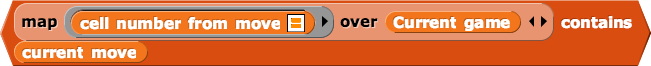
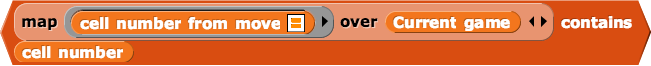
first page of TTT done

Changed region(s): [[0.0, 0.6061, 0.9831, 1.0], [0.9831, 0.4545, 1.0, 0.6061], [0.9831, 0.6364, 1.0, 0.6667]]

diff --git a/cur/programming/3-lists/4-combining-list-ops/3-tic-tac-toe.html b/cur/programming/3-lists/4-combining-list-ops/3-tic-tac-toe.html
@@ -30,13 +30,14 @@
         <li>The players can see which which cells on the board have been taken, but the program isn't keeping track of those cells, so a player can move the sprite into a space that has already been taken.</li>
         	<ol>
             	<li>To keep track, you will need a variable <var>current game</var> in which to list each move of the game. At the start of the game, this list must be empty (set to the empty list).</li>
-                <li>Build a constructor <code>current move</code> that creates a list of two items, the player and the cell the player moved to. That list will be added to <var>current game</var> if the move is legal. It will be useful to have a reporter like <img src="/bjc-r/img/3-lists/player(costumeNumber).png"  alt="player(costume Number)"> that translates a costume number (1 or 2) into a player's symbol (x or o). </li>
-                <li>When a player tries to move the sprite into a space, your program must check the list <var>current game</var> to see if that is a legal move. One way to do that is to create a block <img src="/bjc-r/img/3-lists/legal-move().png"  alt="legal move?"> to see if the cell number is already in <var>current game</var>. If it <em>is</em>, the program must say something like "that space is already used." If it <em>isn't</em>, the player's current move—the list containing the costume (x or o) and cell number—must be added to <var>current game</var>. For this, it will be useful to have a selector <img src="/bjc-r/img/3-lists/cell-number-from-move.png" width="244" height="23" alt="cell-number-from-move"> that takes a move (the list of player's symbol and the cell) as input and outputs only the cell.  You will also need .............<img src="/bjc-r/img/3-lists/map-cell-number-from-move()-over-current-game-contains-current-move.png" width="651" height="66" alt="map-cell-number-from-move()-over-current-game-contains-current-move"></li>
+                <li>Build a constructor <code>current move</code> that takes two inputs, the player (x or o) and the cell the player moved to (1 through 9), and reports the list of those two. It will be useful to have a reporter like <img src="/bjc-r/img/3-lists/player(costumeNumber).png"  alt="player(costume Number)"> that translates a costume number (1 or 2) into a player's symbol (x or o). </li>
+                <li>When a player tries to move the sprite into a space, your program must check the list <var>current game</var> to see if that is a legal move. One way to do that is to create a block <img src="/bjc-r/img/3-lists/legal-move().png"  alt="legal move?"> to see if the cell number is still free (not already used in <var>current game</var>). If it is still free, the player's move—the list of (x or o) and cell that <code>current move</code>reports—must be added to <var>current game</var>. Otherwise, the program must say something like "that space is already used." For this, it will be useful to have a selector <img src="/bjc-r/img/3-lists/cell-number-from-move.png" alt="cell-number-from-move"> that takes a move (a list like <var>{x 5}</var>) as input and reports only the cell number (e.g., 5). To test every move in <var>current game</var> and see if it contains the most recent cell number, <code>legal move?</code> will use <img src="/bjc-r/img/3-lists/map-cell-number-from-move()-over-current-game-contains-current-move.png" alt="map-cell-number-from-move()-over-current-game-contains-current-move"></li>
             </ol>
         <li>Check to make sure this all works. Save your result.</li>
-        <li>Now, create a way to tell if the player's move has resulted in a win! Here are some suggestions for one way to do that:
+        <li>The next step is to create a way to tell if the player's move has resulted in a win. You can begin that now, and will finish it later, after you learn more about how to use <code>map</code> works. 
         	<ol>
-            	<li>Create a list of all possible winning combinations of cells.  That might start like:  </li>
+           	  <li>Each winning combination is a list of three cells. What triples <em>are</em> winning combinations? How many winning combinations are there? </li>
+                <li>Create a list of all possible winning combinations of cells. That is a list of 3-cell lists.</li>
             </ol>
         </li>
   </ol>
